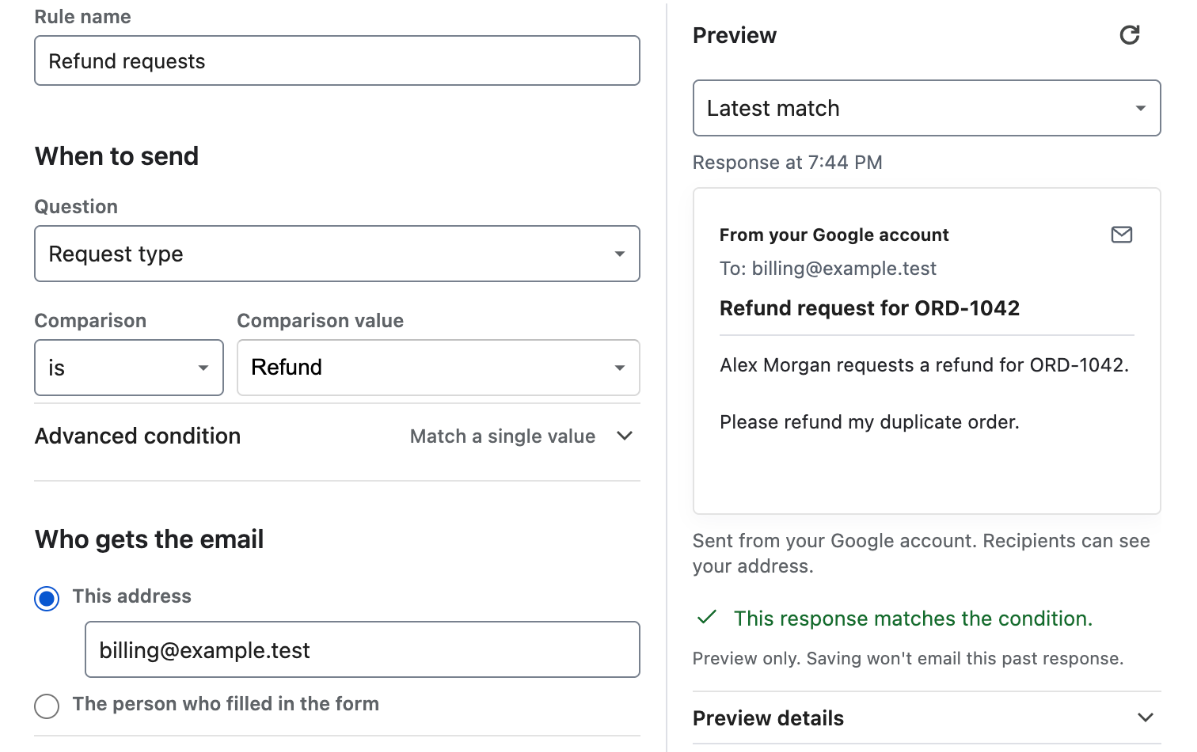
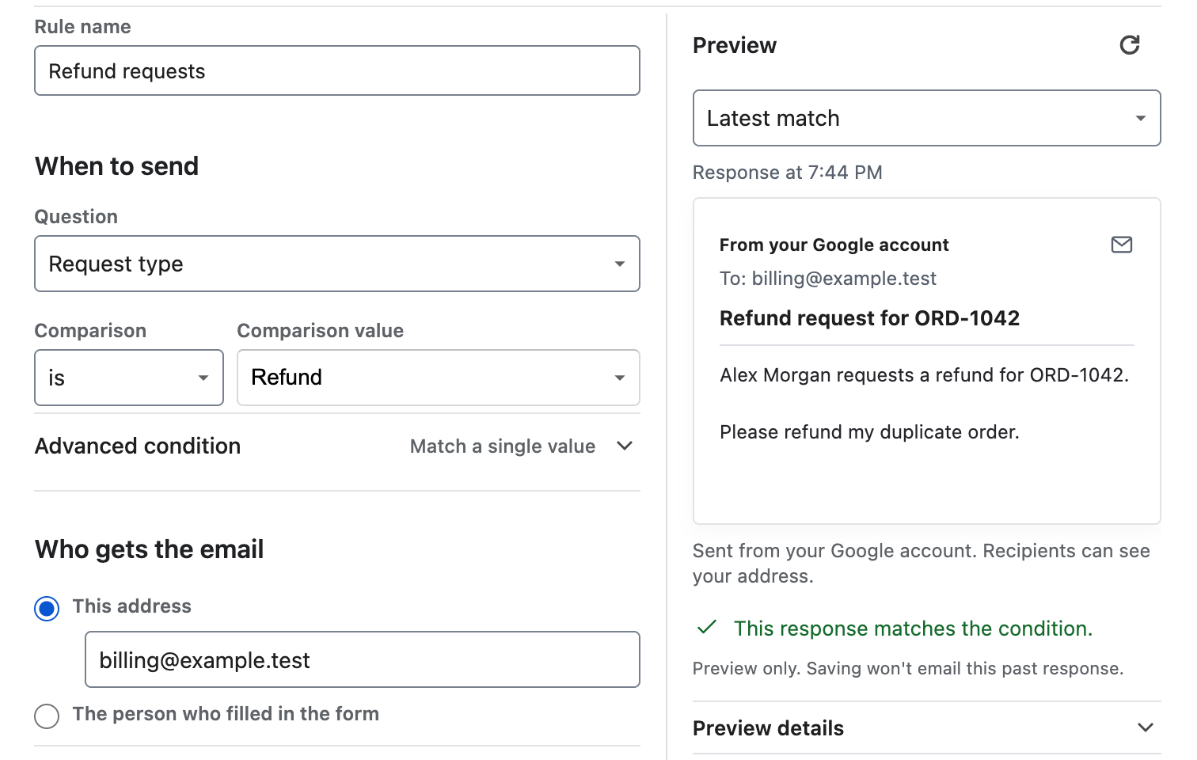
Landing round 3: consistent sample email, wider hero text, wrapping plan buttons, data cards, quieter section rhythm

diff --git a/index.html b/index.html
@@ -47,7 +47,7 @@
     <div class="wrap">
       <div>
         <p class="kicker">Add-on for Google Forms</p>
-        <h1 id="hero-title">Email each Google Forms response to the right person</h1>
+        <h1 id="hero-title">Email each Google&nbsp;Forms response to the right person</h1>
         <p class="lede">Get the answers in the email, not just a “new response” alert. Send refund requests to billing, sign-ups to the organizer, or every response to yourself.</p>
         <div class="cta">
           <a class="btn btn-primary btn-lg" href="https://workspace.google.com/marketplace/app/answerfinch_form_notifications_email_rou/602427031339">Install free</a>
@@ -62,17 +62,16 @@
       <figure class="visual" aria-label="A rule in the Answerfinch sidebar and the email it sends">
         <div class="panel"><img src="assets/v10/sidebar-en.png" width="596" height="520" fetchpriority="high" alt="Answerfinch sidebar: the Refund requests rule is on and sends to billing."></div>
         <div class="mail" role="img" aria-label="Example email sent by the rule">
-          <div class="mail-head"><img src="assets/answerfinch-mark.svg" alt="">Sent from your Google account</div>
-          <p class="mail-subject">Refund request for ORD-1042</p>
-          <p class="mail-to">To: billing@example.com</p>
+          <div class="mail-head"><span class="avatar" aria-hidden="true">Y</span><span><strong>You</strong> (your Google account)</span></div>
+          <p class="mail-subject">Refund request for ORD&#8209;1042</p>
+          <p class="mail-to">To: billing@example.test</p>
+          <p class="mail-body">Alex Morgan requests a refund for ORD&#8209;1042.</p>
           <dl>
-            <dt>Name</dt><dd>Alex Morgan</dd>
-            <dt>Order</dt><dd>ORD-1042</dd>
             <dt>Request type</dt><dd>Refund</dd>
             <dt>Message</dt><dd>Please refund my duplicate order.</dd>
           </dl>
         </div>
-        <figcaption class="visual-caption">Sample form and email</figcaption>
+        <figcaption class="visual-caption">Sample form and email. You write the message and choose which answers go in it.</figcaption>
       </figure>
     </div>
   </section>
@@ -103,7 +102,7 @@
           <tbody>
             <tr><th scope="row">Answers in the email</th><td class="them">No, a link to the form</td><td class="us">The answers you choose</td></tr>
             <tr><th scope="row">Who gets the email</th><td class="them">You and other form editors</td><td class="us">Anyone you choose</td></tr>
-            <tr><th scope="row">Different people for different answers</th><td class="them">No</td><td class="us">One rule per route</td></tr>
+            <tr><th scope="row">Different people for different answers</th><td class="them">No</td><td class="us">One rule for each answer</td></tr>
             <tr><th scope="row">Your own subject and message</th><td class="them">No</td><td class="us">Yes</td></tr>
             <tr><th scope="row">Confirmation to the person who answered</th><td class="them">A copy of their responses</td><td class="us">Your message, with their answers</td></tr>
             <tr><th scope="row">Send log and resend</th><td class="them">No</td><td class="us">Yes</td></tr>
@@ -113,10 +112,10 @@
     </div>
   </section>
 
-  <section class="tint" aria-labelledby="cases-title">
+  <section aria-labelledby="cases-title">
     <div class="wrap">
       <h2 id="cases-title">For shops, classrooms and events</h2>
-      <p class="sub">One rule per route. Each rule checks one question.</p>
+      <p class="sub">Pick a question, pick an answer, pick who hears about it.</p>
       <div class="cases">
         <div class="card"><p class="case-tag">Shops</p><h3>Send requests to the right team</h3><p class="grow">Refunds go to billing, wholesale questions to sales, everything else to support.</p><a class="more" href="help/conditional-email-notifications.html">Read the guide →</a></div>
         <div class="card"><p class="case-tag">Classrooms</p><h3>Confirm conference sign-ups</h3><p class="grow">Each parent gets a confirmation with the time slot they picked.</p><a class="more" href="help/conference-signup-confirmation.html">Read the guide →</a></div>
@@ -125,9 +124,9 @@
     </div>
   </section>
 
-  <section id="pricing" aria-labelledby="pricing-title">
+  <section id="pricing" class="tint" aria-labelledby="pricing-title">
     <div class="wrap narrow">
-      <div class="center"><h2 id="pricing-title">Pricing</h2><p class="sub">Plans apply to your whole Google account. Every condition type is included.</p></div>
+      <div class="center"><h2 id="pricing-title">Pricing</h2><p class="sub">Start free with one rule. Upgrade when you need more.</p></div>
       <div class="plans">
         <div class="card plan">
           <h3>Free</h3>
@@ -140,7 +139,7 @@
           </ul>
           <a class="btn btn-primary" href="https://workspace.google.com/marketplace/app/answerfinch_form_notifications_email_rou/602427031339">Install free</a>
         </div>
-        <div class="card plan pro">
+        <div class="card plan">
           <h3>Pro</h3>
           <p class="price">$29 <small>/ year</small></p>
           <p class="price-note">or $4 / month · taxes included</p>
@@ -149,18 +148,21 @@
             <li>Across every form in your Google account</li>
             <li>Everything in Free</li>
           </ul>
-          <a class="btn btn-secondary" href="https://workspace.google.com/marketplace/app/answerfinch_form_notifications_email_rou/602427031339">Start free, upgrade in the add-on</a>
+          <a class="btn btn-secondary" href="https://workspace.google.com/marketplace/app/answerfinch_form_notifications_email_rou/602427031339">Start free, upgrade later</a>
         </div>
       </div>
-      <p class="fine">Cancel any time. See the <a href="terms.html">Terms</a> for billing and refunds.</p>
+      <p class="fine">Plans cover your whole Google account. Pro is sold by Dodo Payments, our merchant of record. Cancel any time; see the <a href="terms.html">Terms</a>.</p>
     </div>
   </section>
 
-  <section class="tint" aria-labelledby="data-title">
-    <div class="wrap narrow">
+  <section aria-labelledby="data-title">
+    <div class="wrap">
       <h2 id="data-title">Your responses stay in your Google account</h2>
-      <p class="sub">Answerfinch runs in Google Apps Script under your account. Responses aren't sent to Lazy Labs servers. Emails go only to the recipients you choose, and test emails only to you.</p>
-      <p class="sub">Google limits how many emails a script can send each day; Answerfinch adds no cap of its own. Responses picked up more than 48 hours after they were submitted aren't sent automatically. <a href="privacy.html">Privacy Policy</a> · <a href="help/faq.html">FAQ</a></p>
+      <div class="cases">
+        <div class="card"><h3>Runs in your account</h3><p class="grow">Answerfinch runs in Google Apps Script under your Google account. Responses aren't sent to Lazy Labs servers.</p></div>
+        <div class="card"><h3>Only the people you choose</h3><p class="grow">Emails go to the recipients in your rules. Test emails go only to you.</p></div>
+        <div class="card"><h3>Google's limits apply</h3><p class="grow">Google caps how many emails a script can send each day. Answerfinch adds no cap of its own.</p><a class="more" href="privacy.html">Privacy Policy →</a></div>
+      </div>
     </div>
   </section>
 
@@ -174,9 +176,10 @@
 </main>
 
 <footer>
+  <h2 class="visually-hidden">Site links</h2>
   <div class="wrap">
     <div class="cols">
-      <div><a class="mark" href="index.html"><img src="assets/answerfinch-mark.svg" alt="">Answerfinch</a><p style="margin-top:8px">Email routing for Google Forms, by Lazy Labs.</p></div>
+      <div><a class="mark" href="index.html"><img src="assets/answerfinch-mark.svg" alt="">Answerfinch</a><p class="tagline">Email routing for Google Forms, by Lazy Labs.</p></div>
       <div><h3>Guides</h3><ul>
         <li><a href="help/email-notifications-with-responses.html">Responses in your email</a></li>
         <li><a href="help/conditional-email-notifications.html">Email based on answers</a></li>

diff --git a/assets/landing.css b/assets/landing.css
@@ -159,3 +159,22 @@ footer .legal { font-size:13px; line-height:18px; }
   .plan { padding:24px; }
   footer .cols { grid-template-columns:1fr; }
 }
+/* round 3 */
+.hero .wrap { grid-template-columns:minmax(0,1fr) minmax(0,480px); }
+h1 { font-size:clamp(34px,3.6vw,46px); line-height:1.18; }
+.visual { height:440px; }
+.visual .panel { width:280px; }
+.mail { width:320px; top:190px; }
+.mail-head .avatar { width:24px; height:24px; border-radius:12px; background:#7b5cd6; color:#fff; font-weight:600; font-size:12px; display:inline-flex; align-items:center; justify-content:center; flex:0 0 24px; }
+.mail-head strong { color:var(--ink); font-weight:600; }
+.mail-body { margin-bottom:12px; }
+.visual-caption { left:0; bottom:0; max-width:180px; }
+.plan .btn { white-space:normal; height:auto; min-height:40px; padding:10px 20px; text-align:center; }
+.tagline { margin-top:8px; }
+@media (max-width:1100px) {
+  .hero .wrap { grid-template-columns:1fr; gap:48px; }
+  .visual { max-width:480px; width:100%; margin:0 auto; }
+}
+.visual { margin-bottom:32px; }
+.visual-caption { left:auto; right:0; bottom:-28px; max-width:none; text-align:right; }
+@media (max-width:600px){ .visual { margin-bottom:0; } .visual-caption { text-align:left; } }
